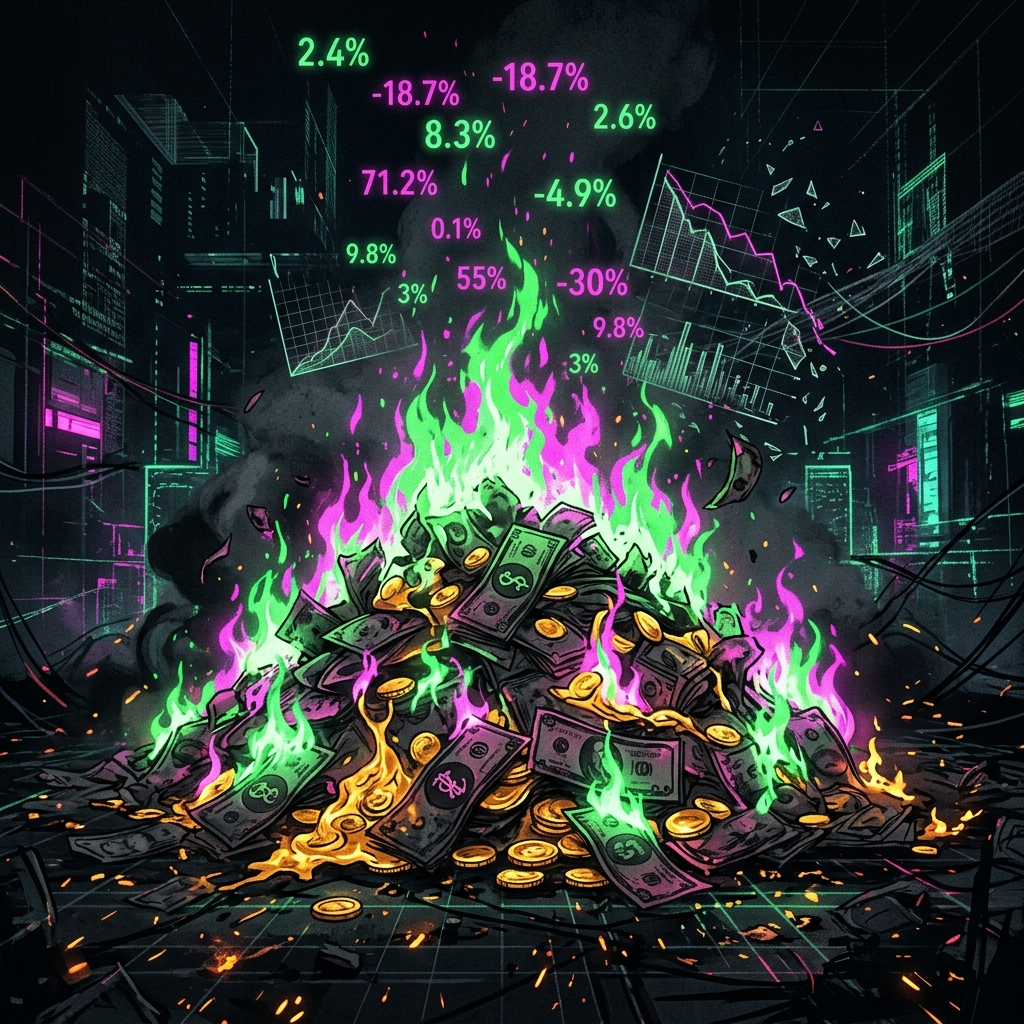
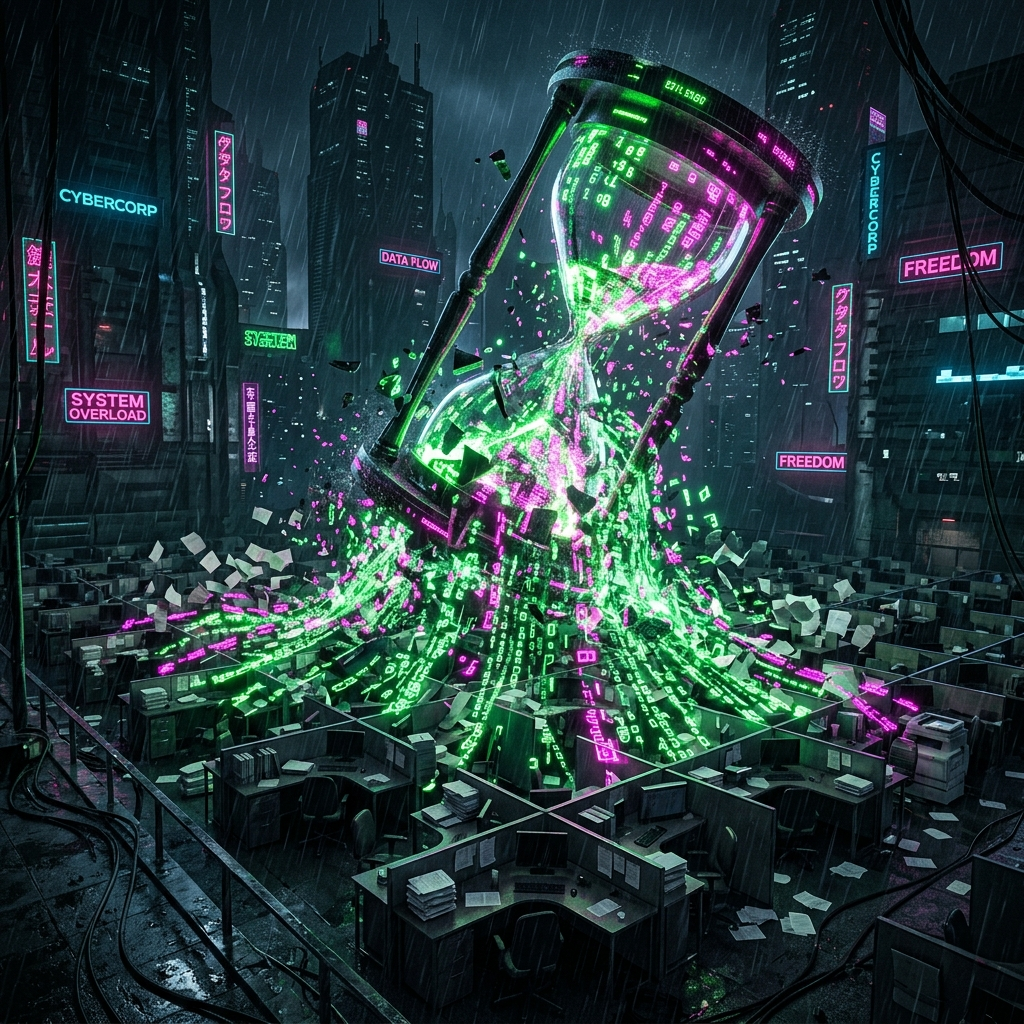
v3-new-slides-fonts-images

diff --git a/v3.0/src/styles/global.css b/v3.0/src/styles/global.css
@@ -28,7 +28,7 @@ html, body {
 /* === SLIDES CONTAINER === */
 .slides-track {
   display: flex;
-  width: calc(13 * 100vw); /* 13 slides */
+  width: calc(15 * 100vw); /* 15 slides */
   height: 100vh;
   transition: transform var(--transition-speed) cubic-bezier(0.4, 0, 0.2, 1);
 }
@@ -86,20 +86,20 @@ h1, h2, h3 {
   line-height: 1.2;
   margin: 0;
 }
-h1 { font-size: 2.2em; font-weight: 900; }
-h2 { font-size: 1.35em; font-weight: 700; }
-h3 { font-size: .95em; font-weight: 700; }
-p { line-height: 1.5; font-size: .95em; margin: 0; }
+h1 { font-size: 2.8em; font-weight: 900; }
+h2 { font-size: 1.7em; font-weight: 700; }
+h3 { font-size: 1.2em; font-weight: 700; }
+p { line-height: 1.5; font-size: 1.1em; margin: 0; }
 
 .neon-green { color: var(--neon-green); text-shadow: var(--gg); }
 .neon-magenta { color: var(--neon-magenta); text-shadow: var(--gm); }
 .dim { color: var(--dim); }
-.big-text { font-size: 1.35em; margin: .3em 0; }
-.body-sm { font-size: .9em; }
+.big-text { font-size: 1.55em; margin: .3em 0; }
+.body-sm { font-size: 1.05em; }
 
 /* === TITLE GLITCH — split green/magenta === */
 .title-glitch {
-  font-size: 3em;
+  font-size: 3.8em;
   line-height: 1.1;
   background: linear-gradient(180deg,
     var(--neon-green) 0%, var(--neon-green) 48%,
@@ -151,14 +151,14 @@ p { line-height: 1.5; font-size: .95em; margin: 0; }
 }
 
 /* === TITLE SLIDE === */
-.title-main { font-size: 3em; line-height: 1.1; }
-.subtitle { font-family: 'JetBrains Mono', monospace; color: var(--neon-magenta); font-size: 1em; margin-top: .5em; text-shadow: var(--gm); }
-.author-block { margin-top: 2rem; font-size: .9em; border-left: 3px solid var(--neon-green); padding-left: 1rem; }
+.title-main { font-size: 3.8em; line-height: 1.1; }
+.subtitle { font-family: 'JetBrains Mono', monospace; color: var(--neon-magenta); font-size: 1.15em; margin-top: .5em; text-shadow: var(--gm); }
+.author-block { margin-top: 2rem; font-size: 1.05em; border-left: 3px solid var(--neon-green); padding-left: 1rem; }
 .ff-glow { font-family: 'Orbitron'; font-size: 3em; color: var(--neon-green); text-shadow: 0 0 30px rgba(0,255,65,.6), 0 0 60px rgba(0,255,65,.3), 0 0 100px rgba(0,255,65,.15); }
 
 /* === BIO LIST === */
 .bio-list { list-style: none; padding: 0; margin: .8rem 0 0; }
-.bio-list li { position: relative; padding-left: 1.5em; margin-bottom: .5em; font-size: .9em; line-height: 1.5; }
+.bio-list li { position: relative; padding-left: 1.5em; margin-bottom: .5em; font-size: 1.05em; line-height: 1.5; }
 .bio-list li::before { position: absolute; left: 0; top: 0; }
 .neon-green-bullet::before { content: "→"; color: var(--neon-green); text-shadow: var(--gg); }
 .neon-magenta-bullet::before { content: "→"; color: var(--neon-magenta); text-shadow: var(--gm); }
@@ -166,12 +166,12 @@ p { line-height: 1.5; font-size: .95em; margin: 0; }
 /* === TWO-LINE ITEMS === */
 .two-line-list { margin-top: 1.2rem; display: flex; flex-direction: column; gap: 1.2rem; }
 .two-line-item { display: flex; align-items: flex-start; gap: 1rem; }
-.tli-big { font-family: 'Orbitron', sans-serif; font-size: 1.5em; font-weight: 900; line-height: 1.2; }
-.tli-desc { font-size: .9em; color: var(--dim); margin-top: .2em; line-height: 1.4; }
+.tli-big { font-family: 'Orbitron', sans-serif; font-size: 1.8em; font-weight: 900; line-height: 1.2; }
+.tli-desc { font-size: 1.05em; color: var(--dim); margin-top: .2em; line-height: 1.4; }
 
 /* === COMPARISON === */
 .comp-v2 { display: flex; flex-direction: column; gap: .8rem; margin-top: 1rem; }
-.comp-block { padding: 1rem 1.2rem; border-radius: 8px; background: rgba(255,255,255,.03); font-family: 'JetBrains Mono', monospace; font-size: .85em; }
+.comp-block { padding: 1rem 1.2rem; border-radius: 8px; background: rgba(255,255,255,.03); font-family: 'JetBrains Mono', monospace; font-size: 1em; }
 .comp-block p { margin: .25em 0; color: var(--text); }
 .comp-block.bad { border: 1px solid rgba(255,0,170,.3); }
 .comp-block.good { border: 1px solid rgba(0,255,65,.3); }
@@ -181,25 +181,25 @@ p { line-height: 1.5; font-size: .95em; margin: 0; }
 .speed-v3 { margin-top: 1.5rem; }
 .speed-line {
   font-family: 'Orbitron', sans-serif;
-  font-size: 1.15em; font-weight: 700; line-height: 1.4;
+  font-size: 1.35em; font-weight: 700; line-height: 1.4;
   display: flex; align-items: baseline; gap: .5rem; flex-wrap: wrap;
 }
 .speed-arrow { font-size: 1em; color: var(--dim); }
 .speed-chain {
   font-family: 'JetBrains Mono', monospace;
-  font-size: .8em; color: var(--text);
+  font-size: .95em; color: var(--text);
   margin: .4rem 0 0; line-height: 1.6; opacity: .85;
 }
 
 /* === PAIN LIST === */
 .pain-list { margin-top: .8rem; display: flex; flex-direction: column; gap: .6rem; }
-.pain-item { font-size: 1.05em; padding: .6rem .8rem; background: rgba(255,255,255,.02); border-left: 3px solid var(--neon-magenta); border-radius: 0 6px 6px 0; }
+.pain-item { font-size: 1.2em; padding: .6rem .8rem; background: rgba(255,255,255,.02); border-left: 3px solid var(--neon-magenta); border-radius: 0 6px 6px 0; }
 
 /* === HIGHLIGHT RESULT === */
-.hl-result { margin-top: 1.2rem; font-family: 'Inter', sans-serif; font-size: 1.1em; font-weight: 700; text-align: left; }
+.hl-result { margin-top: 1.2rem; font-family: 'Inter', sans-serif; font-size: 1.25em; font-weight: 700; text-align: left; }
 
 /* === CONTACTS === */
-.contacts { margin-top: 1.5rem; font-size: 1.1em; }
+.contacts { margin-top: 1.5rem; font-size: 1.25em; }
 .contacts p { margin: .4em 0; font-family: 'JetBrains Mono'; }
 
 /* ======================================
@@ -258,4 +258,69 @@ p { line-height: 1.5; font-size: .95em; margin: 0; }
   box-shadow: 0 0 10px var(--neon-green), 0 0 20px rgba(0,255,65,.3);
   transition: width var(--transition-speed) ease;
   z-index: 1000;
+}
+
+/* === FINN FLARE INFO CARDS === */
+.ff-info-grid {
+  display: grid;
+  grid-template-columns: 1fr 1fr;
+  gap: 1rem;
+  margin-top: 1.5rem;
+}
+.ff-card {
+  padding: 1.2rem 1.4rem;
+  border: 1px solid rgba(0,255,65,.2);
+  border-radius: 8px;
+  background: rgba(0,255,65,.03);
+  font-size: 1em;
+  line-height: 1.5;
+}
+.ff-card .ff-card-icon {
+  font-size: 1.6em;
+  margin-bottom: .4rem;
+}
+
+/* === TOOLS GRID === */
+.tools-section { margin-top: 1rem; }
+.tools-section h3 { margin-bottom: .6rem; }
+.tools-grid {
+  display: flex;
+  flex-wrap: wrap;
+  gap: .5rem;
+  margin-bottom: 1.2rem;
+}
+.tool-tag {
+  padding: .4rem .9rem;
+  border: 1px solid rgba(0,255,65,.3);
+  border-radius: 20px;
+  background: rgba(0,255,65,.06);
+  font-family: 'JetBrains Mono', monospace;
+  font-size: .85em;
+  color: var(--neon-green);
+  text-shadow: var(--gg);
+}
+.tool-tag.magenta {
+  border-color: rgba(255,0,170,.3);
+  background: rgba(255,0,170,.06);
+  color: var(--neon-magenta);
+  text-shadow: var(--gm);
+}
+.agent-list {
+  display: flex;
+  flex-direction: column;
+  gap: .4rem;
+  margin-top: .5rem;
+}
+.agent-item {
+  padding: .5rem .8rem;
+  background: rgba(255,255,255,.02);
+  border-left: 3px solid var(--neon-green);
+  border-radius: 0 6px 6px 0;
+  font-family: 'JetBrains Mono', monospace;
+  font-size: .85em;
+  line-height: 1.4;
+}
+.agent-item .agent-role {
+  color: var(--neon-magenta);
+  font-weight: 700;
 }
